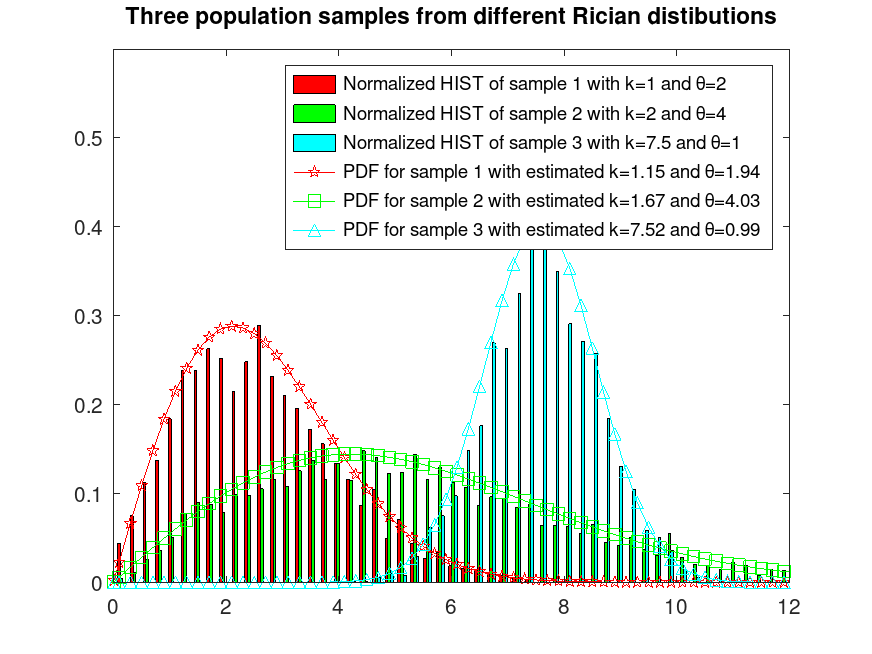
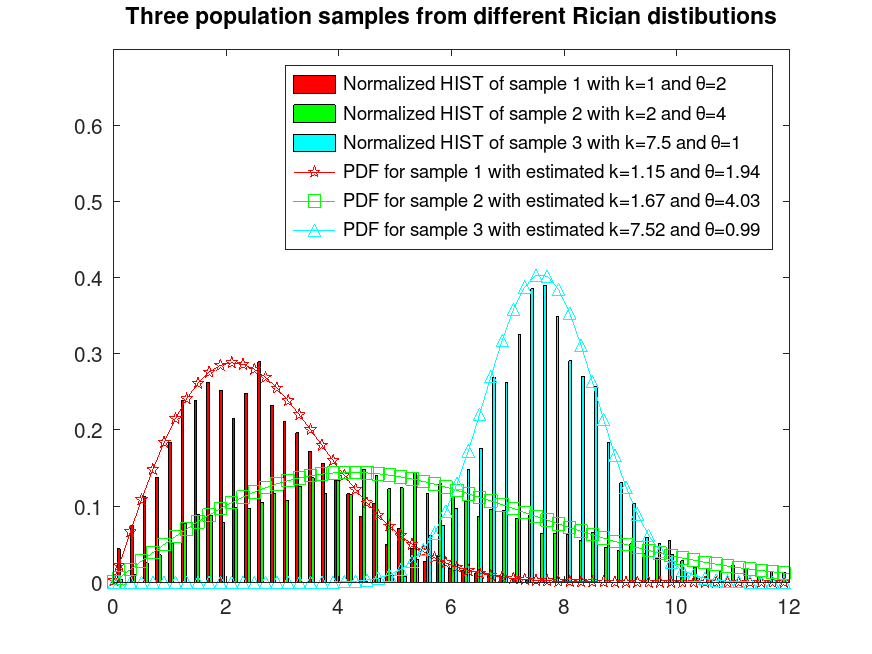
update online documentation

diff --git a/docs/ricefit.html b/docs/ricefit.html
@@ -170,7 +170,7 @@
  set (h(1), "facecolor", "c");
  set (h(2), "facecolor", "g");
  set (h(3), "facecolor", "r");
- ylim ([0, 0.6]);
+ ylim ([0, 0.7]);
  xlim ([0, 12]);
  hold on
 
